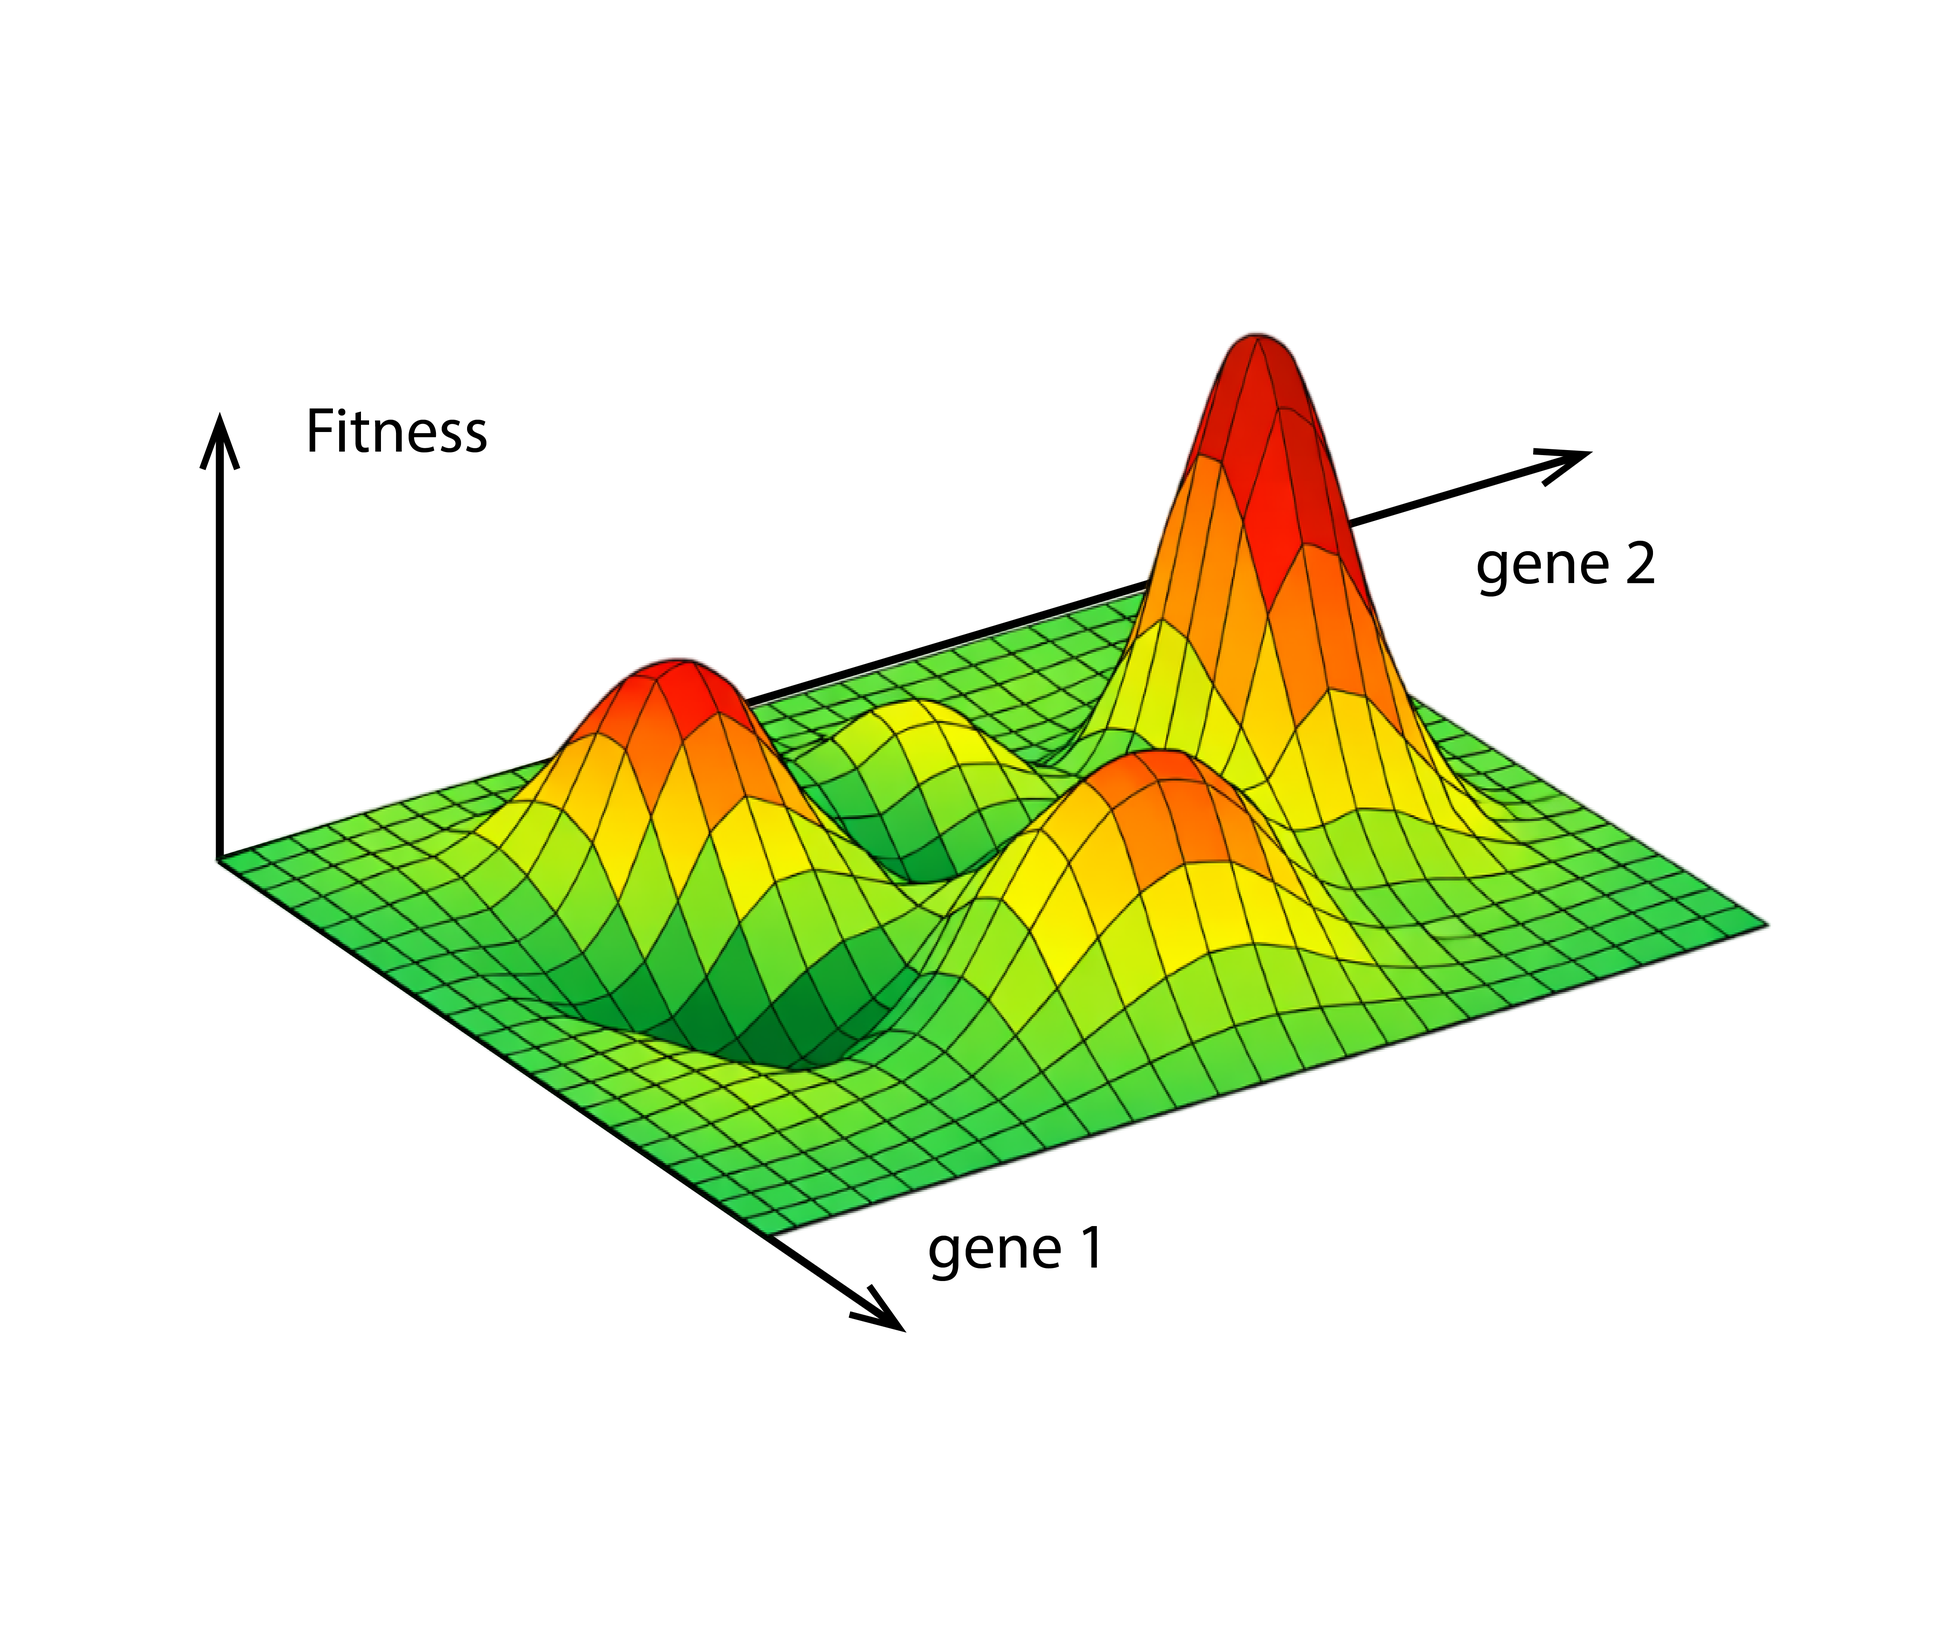
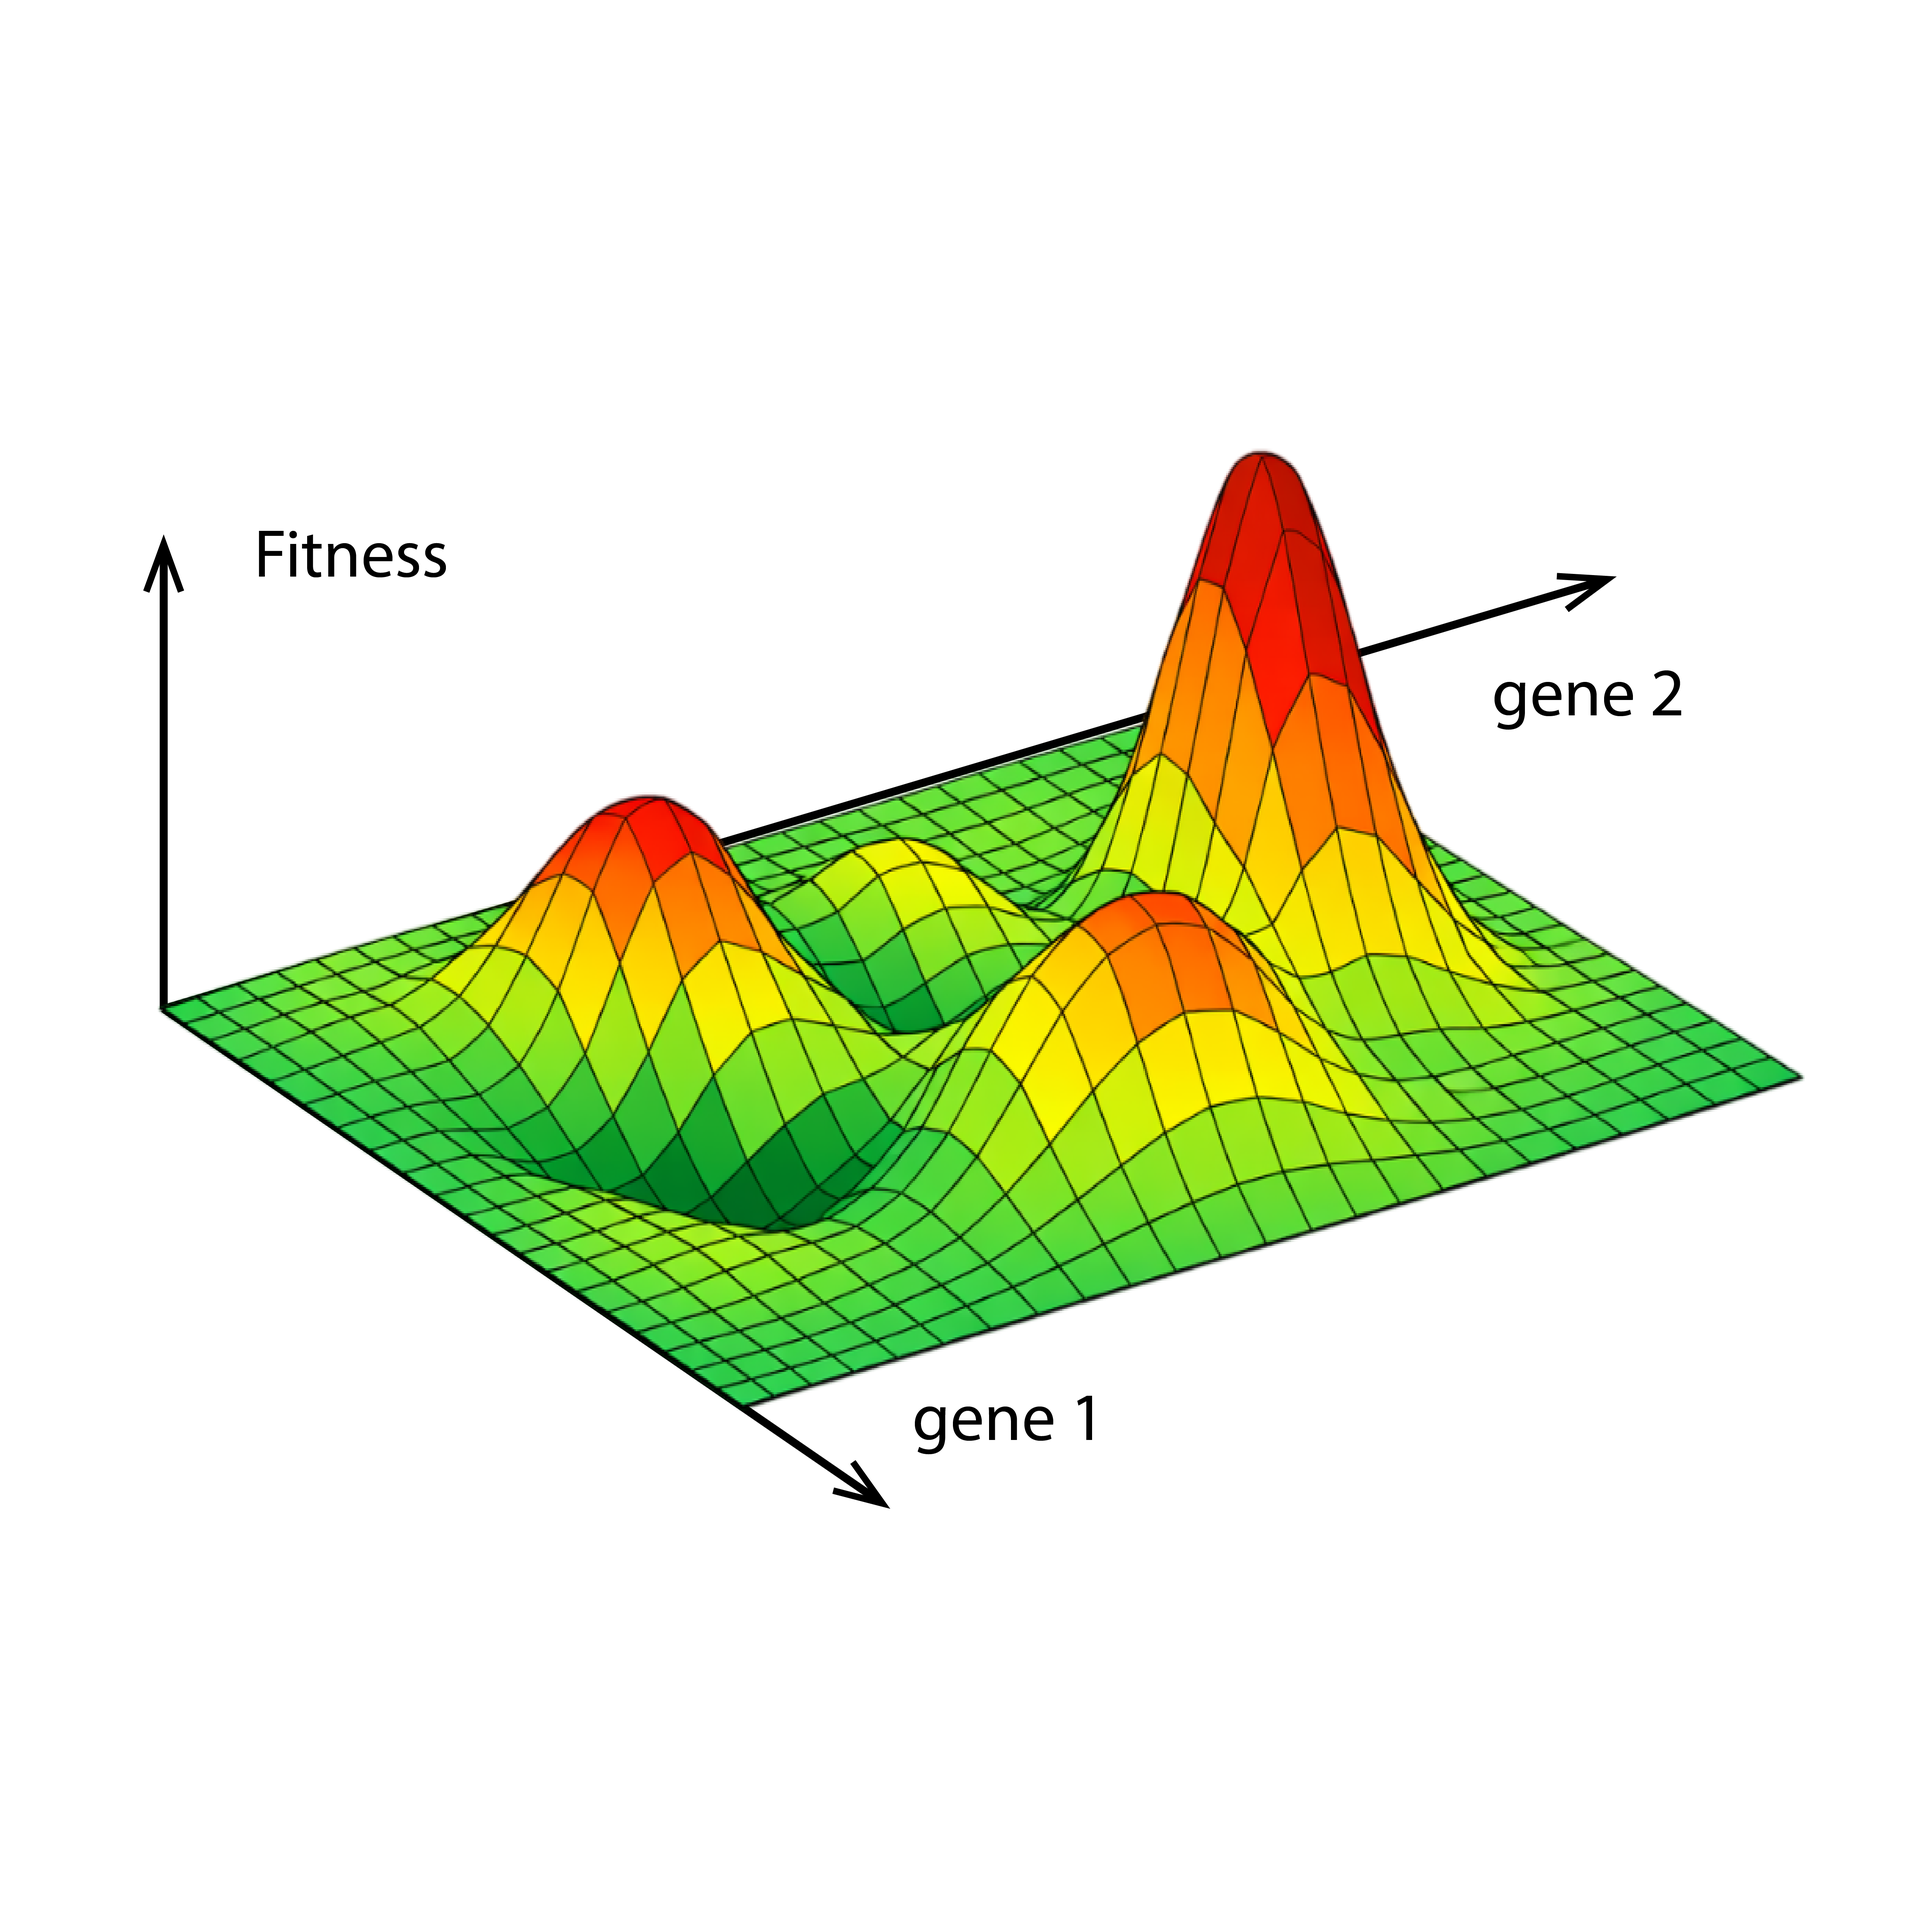
jj

Changed region(s): [[0.0624, 0.187, 0.936, 0.8104]]

diff --git a/style.css b/style.css
@@ -14,6 +14,8 @@
   flex-direction: column;
   align-items: center;
   transition: transform 0.2s ease;
+  width: 270px;
+  white-space: normal;
 }
 
 .research-circle-link:hover {
